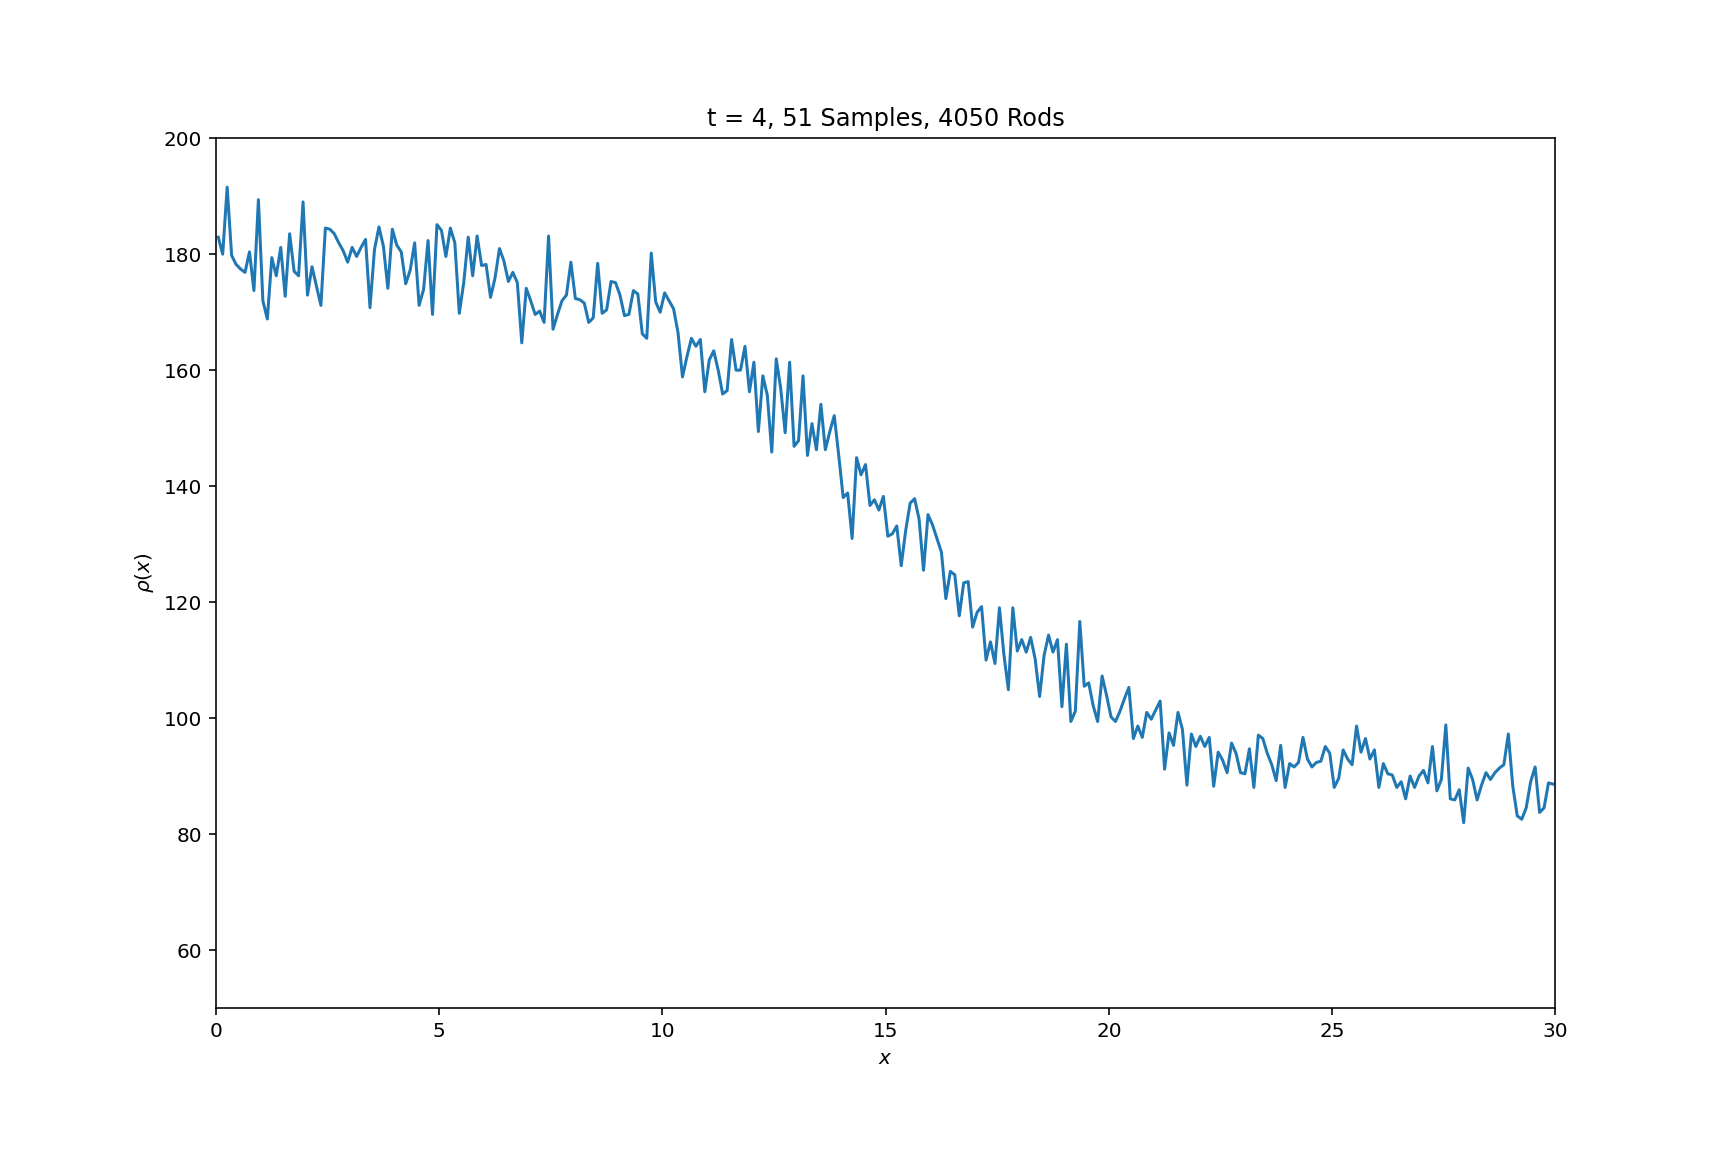
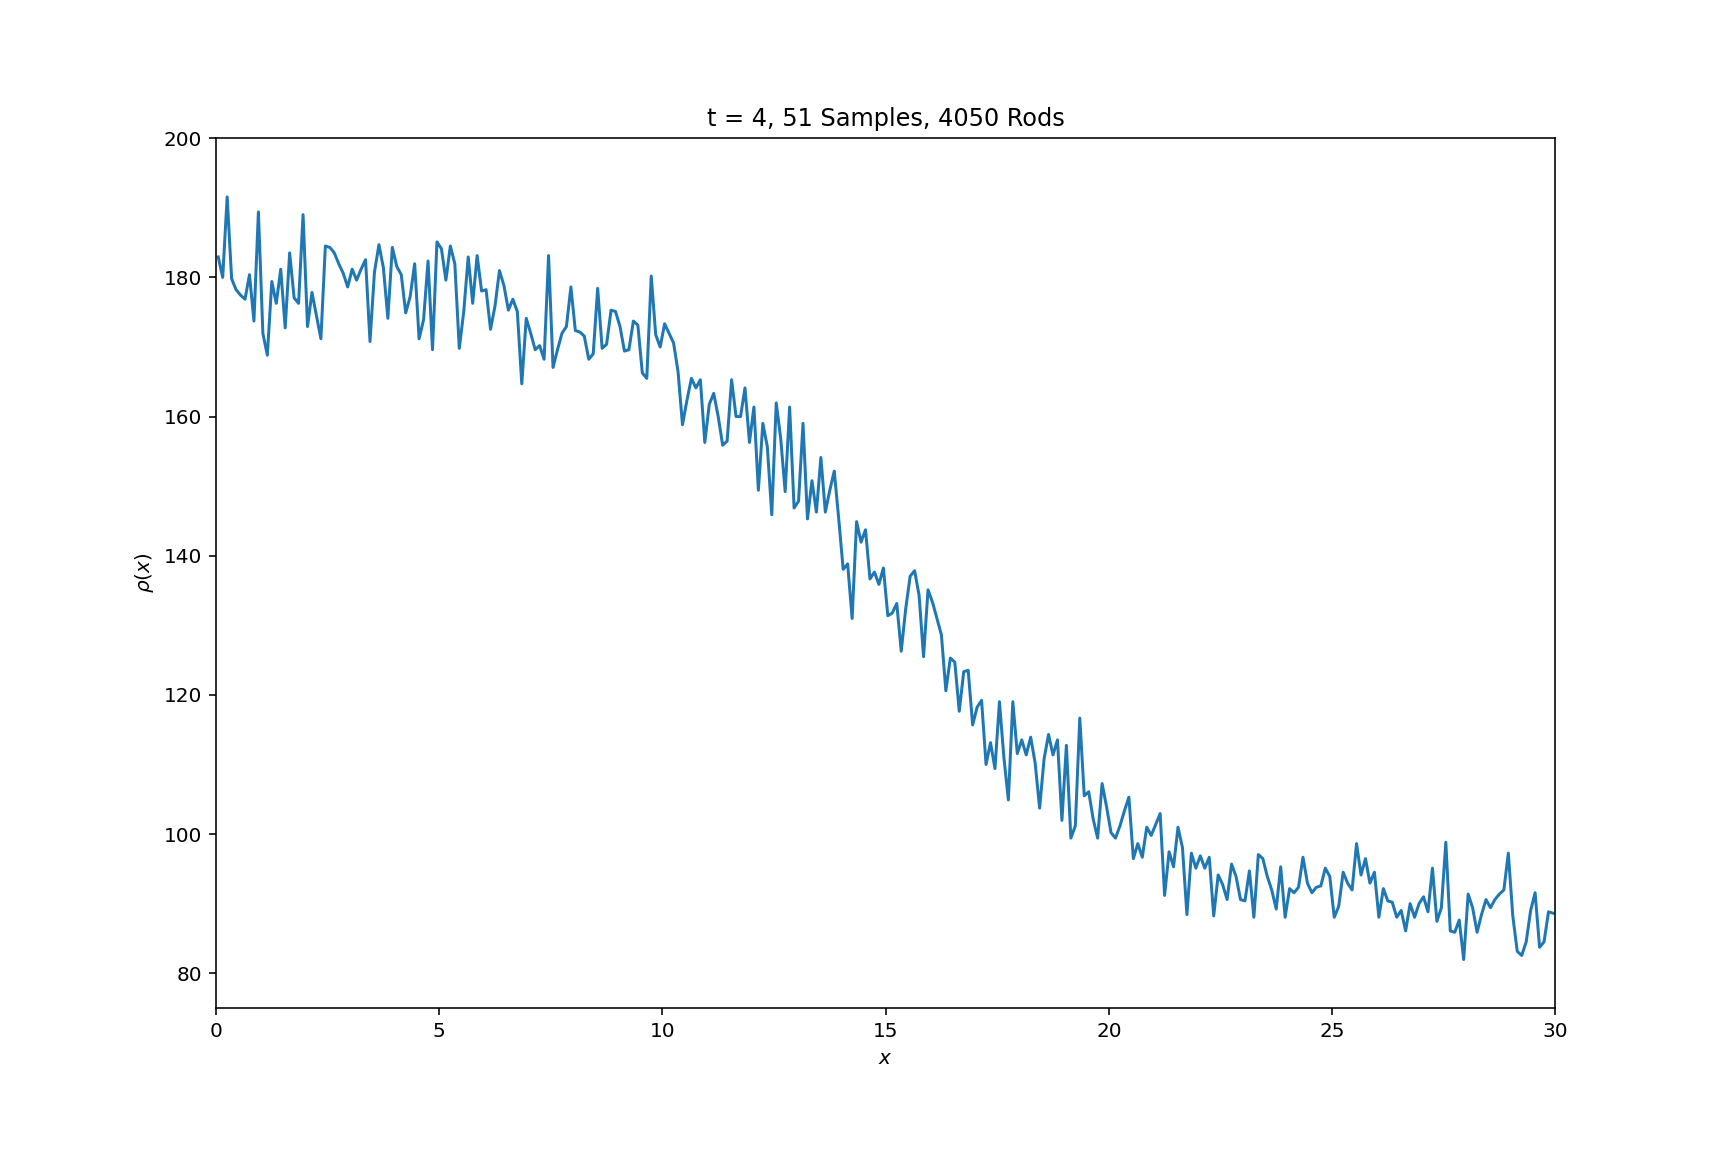
Include dropna option

diff --git a/Density_Plotting/density_plotting.py b/Density_Plotting/density_plotting.py
@@ -5,9 +5,8 @@ import matplotlib.pyplot as plt
 #1. Load csv file containing rod position data of all samples into NumPy array
 
 
-df = pd.read_csv("200Samples_4050rods_RodLength_0.001.csv", header = None)
-df = df.dropna(axis=1) #in case there are any NaN cells
-
+df = pd.read_csv("T4_51Samples_4050rods_RodLength_0.001.csv", header = None)
+#df = df.dropna(axis=1)
 positions_arr = df.to_numpy()
 
 #%%
@@ -53,7 +52,7 @@ ax.plot(x,y)
 plot_title = 't = 3, '+ str(no_samples) + ' Samples, '+ str(no_rods) + ' Rods'
 
 ax.set(title = plot_title, ylabel= r'$\rho (x)$',  xlabel= r'$x$') #rho(x) = bin_count/bin size (cell_length)
-ax.set(xlim = [0,30], ylim = [50,250])
+ax.set(xlim = [0,30], ylim = [75,200])
 plt.savefig(plot_title + '.png')
 plt.show()
 
